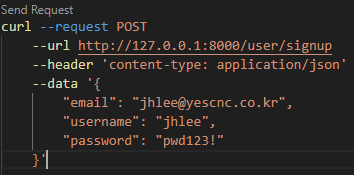
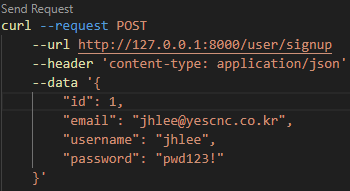
update 230705

diff --git a/services/backend/seminar/seminar_part3/ch1/planner/models/users.py b/services/backend/seminar/seminar_part3/ch1/planner/models/users.py
@@ -4,6 +4,7 @@ from .events import Event
 
 
 class User(BaseModel):
+    id: int
     email: EmailStr
     username: str
     password: str
@@ -12,6 +13,7 @@ class User(BaseModel):
     class Config:
         schema_extra = {
             "example": {
+                "id": 1,
                 "email": "fastapi@packt.com",
                 "username": "John",
                 "password": "pwd123!",

diff --git a/services/backend/seminar/seminar_part3/ch1/planner/models/events.py b/services/backend/seminar/seminar_part3/ch1/planner/models/events.py
@@ -13,6 +13,7 @@ class Event(BaseModel):
     class Config:
         schema_extra = {
             "example": {
+                "id": 1,
                 "title": "FastAPI Book Launch",
                 "image": "https://linktomyimage.com/image.png",
                 "description": "We will be discussing the contents of the FastAPI book in this event.",

diff --git a/services/backend/seminar/seminar_async/async.md b/services/backend/seminar/seminar_async/async.md
@@ -241,6 +241,15 @@ def application(environ, start_response):
   - Django 3.0 이상: 장고는 버전3.0부터 ASGI를 지원한다. 장고 애플리케이션 내의 비동기 코드 지원은 3.1에 추가됐다.실행 속도 측면에서 아쉬운 측면이 있는 프레임워크임을 감안하면 비동기의 활용으로 더 높은 성능을 얻을 수 있다.
 
 - ASGI를 사용할 땐 async함수와 최대한 비동기 친화적인 라이브러리를 사용하는 것이 좋다.
+  
+- FastAPI에선 ASGI 통신을 위해 Starlette 라이브러리를 사용하고 있고 Starlette.applications 모듈에 해당 기능이 구현되어져 있다. 아래는 ASGI를 사용하는 Starlette 라이브러리의 코드 중 일부이다.
+  
+- ASGI서버 (uvicorn)로부터 전달된 scope, receive, send 파라미터를 받아서 처리하는코드
+
+###### starlette/applications.py
+![Alt text](img/async_image13.png)
+
+  
 
 <br/>
 <br/>
